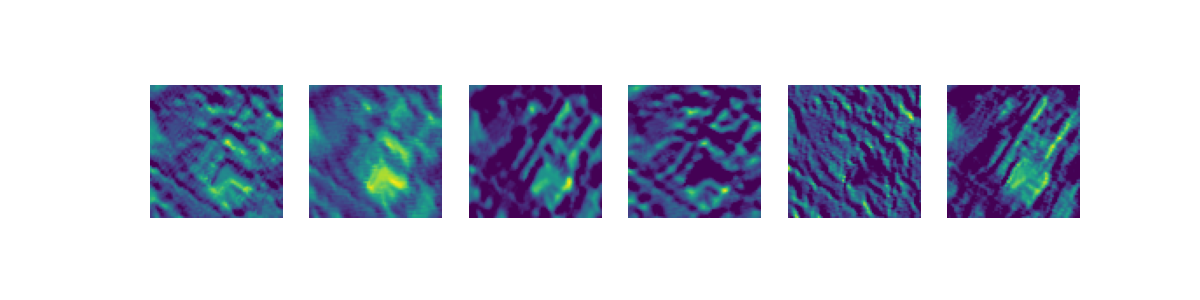
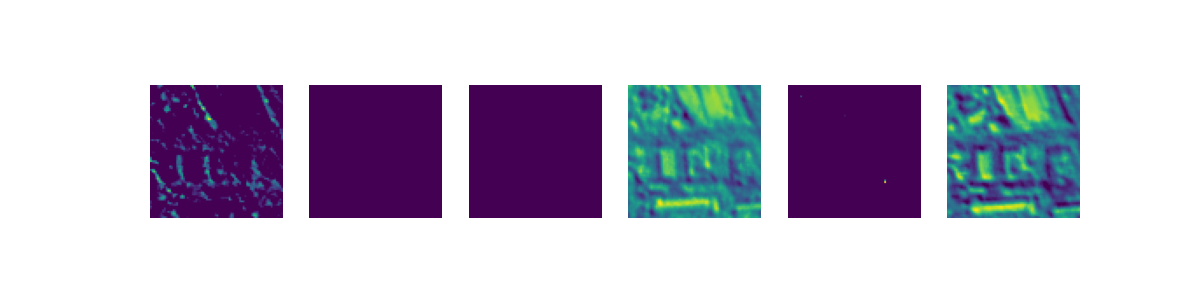
commit2

Changed region(s): [[0.1233, 0.27, 0.925, 0.75]]

diff --git a/outputs/reports/lime_explanation.html b/outputs/reports/lime_explanation.html
@@ -37089,25 +37089,25 @@
 /***/ })
 /******/ ]);
 //# sourceMappingURL=bundle.js.map </script></head><body>
-        <div class="lime top_div" id="top_divCT34VTMZEV9B60X"></div>
+        <div class="lime top_div" id="top_divMN9ED5N2NBW5CFA"></div>
         
         <script>
-        var top_div = d3.select('#top_divCT34VTMZEV9B60X').classed('lime top_div', true);
+        var top_div = d3.select('#top_divMN9ED5N2NBW5CFA').classed('lime top_div', true);
         
             var pp_div = top_div.append('div')
                                 .classed('lime predict_proba', true);
             var pp_svg = pp_div.append('svg').style('width', '100%');
-            var pp = new lime.PredictProba(pp_svg, ["0", "1"], [0.9990931749343872, 0.0009068003273569047]);
+            var pp = new lime.PredictProba(pp_svg, ["0", "1"], [0.3777589797973633, 0.6222410202026367]);
             
         
         var exp_div;
             var exp = new lime.Explanation(["0", "1"]);
         
                 exp_div = top_div.append('div').classed('lime explanation', true);
-                exp.show([["Feature_2 <= -0.50", -0.14710401751154792], ["Feature_3 <= -0.67", -0.021074091289873906], ["0.28 < Feature_1 <= 0.81", -0.0065337296746939034], ["-0.69 < Feature_0 <= 0.08", -0.0020045951346561387]], 1, exp_div);
+                exp.show([["Feature_2 > 0.12", 0.14673721057200023], ["Feature_3 > 0.91", 0.021459425070950677], ["-0.88 < Feature_1 <= 0.28", -0.00808051501943347], ["-0.05 < Feature_0 <= 0.89", -0.0041850714276681624]], 1, exp_div);
                 
         var raw_div = top_div.append('div');
-            exp.show_raw_tabular([["Feature_2", "-0.50", -0.14710401751154792], ["Feature_3", "-0.67", -0.021074091289873906], ["Feature_1", "0.81", -0.0065337296746939034], ["Feature_0", "-0.59", -0.0020045951346561387]], 1, raw_div);
+            exp.show_raw_tabular([["Feature_2", "3.14", 0.14673721057200023], ["Feature_3", "1.13", 0.021459425070950677], ["Feature_1", "0.22", -0.00808051501943347], ["Feature_0", "0.89", -0.0041850714276681624]], 1, raw_div);
         
         </script>
         </body></html>

diff --git a/agents/scientist_agent.py b/agents/scientist_agent.py
@@ -4,6 +4,7 @@ import torch
 import torch.nn as nn
 import torch.optim as optim
 import numpy as np
+import matplotlib.pyplot as plt
 from torch.utils.data import TensorDataset, DataLoader
 from agents.base_agent import BaseAgent
 from sklearn.preprocessing import StandardScaler
@@ -35,18 +36,18 @@ class MLPCustom(nn.Module):
         return self.fc3(x)
 
 class LeNet5Variant(nn.Module):
-    def __init__(self, num_classes=2, padding=0, stride=1, use_avg_pooling=False):
+    def __init__(self, num_classes=2, padding=0, stride=1, use_avg_pooling=False, conv1_filters=6, conv2_filters=16):
         super().__init__()
-        self.conv1 = nn.Conv2d(3, 6, kernel_size=5, stride=stride, padding=padding)
+        self.conv1 = nn.Conv2d(3, conv1_filters, kernel_size=5, stride=stride, padding=padding)
         self.pool = nn.AvgPool2d(2, 2) if use_avg_pooling else nn.MaxPool2d(2, 2)
-        self.conv2 = nn.Conv2d(6, 16, kernel_size=5, stride=1, padding=0)
-        self.conv1x1 = nn.Conv2d(16, 16, kernel_size=1)
-        self.flattened_dim = self._get_conv_output_dim()
+        self.conv2 = nn.Conv2d(conv1_filters, conv2_filters, kernel_size=5, stride=1, padding=0)
+        self.conv1x1 = nn.Conv2d(conv2_filters, conv2_filters, kernel_size=1)
+        self.flattened_dim = self._get_conv_output_dim(conv1_filters, conv2_filters)
         self.fc1 = nn.Linear(self.flattened_dim, 120)
         self.fc2 = nn.Linear(120, 84)
         self.fc3 = nn.Linear(84, num_classes)
 
-    def _get_conv_output_dim(self):
+    def _get_conv_output_dim(self, conv1_filters, conv2_filters):
         with torch.no_grad():
             x = torch.zeros(1, 3, 80, 80)
             x = self.pool(torch.relu(self.conv1(x)))
@@ -143,23 +144,33 @@ class ScientistAgent(BaseAgent):
                 elif strategy == "xavier":
                     nn.init.xavier_normal_(param)
 
+    def plot_learning_curves(self, train_losses, val_losses, model_name):
+            plt.figure(figsize=(10, 6))
+            plt.plot(train_losses, label="Entrainement", color='blue', marker='o')
+            
+            if len(val_losses) > 0:
+                plt.plot(val_losses, label="Validation", color='red', marker='x')
+            
+            plt.xlabel("Epoques")
+            plt.ylabel("Perte")
+            plt.title(f"Courbe d'apprentissage : {model_name}")
+            plt.legend()
+            plt.grid(True)
+            
+    
+            save_path = os.path.join(self.output_dir, f"{model_name}_learning_curve.png")
+            plt.savefig(save_path)
+            plt.close()
+            
+
     def train_tabular_models(self):
-        
         X_train, y_train = torch.load(os.path.join(self.processed_dir, "tabular_train.pt"))
         X_val, y_val = torch.load(os.path.join(self.processed_dir, "tabular_val.pt"))
-        
-        
         scaler = StandardScaler()
-        
         X_train = torch.tensor(scaler.fit_transform(X_train.numpy()), dtype=torch.float32)
         X_val = torch.tensor(scaler.transform(X_val.numpy()), dtype=torch.float32)
-        
-        
         train_loader = DataLoader(TensorDataset(X_train, y_train), batch_size=32, shuffle=True)
-        
-        
         weights = torch.tensor([1.0, 5.0], device=self.device)
-        
         best_val_loss = float("inf")
         best_state = None
         tabular_reports = {}
@@ -170,24 +181,32 @@ class ScientistAgent(BaseAgent):
             model = self.to_device(model)
             criterion = nn.CrossEntropyLoss(weight=weights)
             optimizer = optim.Adam(model.parameters(), lr=0.001)
+            train_losses = []
+            val_losses = []
             for epoch in range(5):
                 model.train()
+                epoch_train_loss = 0.0
+                steps = 0
                 for bx, by in train_loader:
                     bx, by = self.to_device(bx), self.to_device(by)
                     optimizer.zero_grad()
                     loss = criterion(model(bx), by)
                     loss.backward()
                     optimizer.step()
-            model.eval()
-            with torch.no_grad():
-                val_x, val_y = self.to_device(X_val), self.to_device(y_val)
-                v_loss = criterion(model(val_x), val_y).item()
-                tabular_reports[init_strategy] = v_loss
-                if v_loss < best_val_loss:
-                    best_val_loss = v_loss
-                    best_state = model.state_dict()
+                    epoch_train_loss += loss.item()
+                    steps += 1
+                train_losses.append(epoch_train_loss / max(1, steps))
+                model.eval()
+                with torch.no_grad():
+                    val_x, val_y = self.to_device(X_val), self.to_device(y_val)
+                    v_loss = criterion(model(val_x), val_y).item()
+                    val_losses.append(v_loss)
+            self.plot_learning_curves(train_losses, val_losses, f"MLP_{init_strategy}")
+            tabular_reports[init_strategy] = val_losses[-1]
+            if val_losses[-1] < best_val_loss:
+                best_val_loss = val_losses[-1]
+                best_state = model.state_dict()
         torch.save(best_state, os.path.join(self.model_dir, "best_mlp.pt"))
-        
         seq_model = MLPSequential(X_train.shape[1], 64, 2)
         seq_model = self.to_device(seq_model)
         optimizer_seq = optim.Adam(seq_model.parameters(), lr=0.001)
@@ -206,10 +225,55 @@ class ScientistAgent(BaseAgent):
 
     def train_image_models(self):
         X_train, y_train = torch.load(os.path.join(self.processed_dir, "images_train.pt"))
+        X_val, y_val = torch.load(os.path.join(self.processed_dir, "images_val.pt"))
         train_loader = DataLoader(TensorDataset(X_train, y_train), batch_size=64, shuffle=True)
+        val_loader = DataLoader(TensorDataset(X_val, y_val), batch_size=64, shuffle=False)
         cnn_comparison = {}
         for config in [{"padding": 0, "stride": 1, "pool": False}, {"padding": 1, "stride": 2, "pool": True}]:
             model = LeNet5Variant(padding=config["padding"], stride=config["stride"], use_avg_pooling=config["pool"])
+            model = self.to_device(model)
+            criterion = nn.CrossEntropyLoss()
+            optimizer = optim.Adam(model.parameters(), lr=0.001)
+            train_losses = []
+            val_losses = []
+            for epoch in range(2):
+                model.train()
+                epoch_train_loss = 0.0
+                steps = 0
+                for bx, by in train_loader:
+                    bx, by = self.to_device(bx), self.to_device(by)
+                    optimizer.zero_grad()
+                    loss = criterion(model(bx), by)
+                    loss.backward()
+                    optimizer.step()
+                    epoch_train_loss += loss.item()
+                    steps += 1
+                train_losses.append(epoch_train_loss / max(1, steps))
+                model.eval()
+                epoch_val_loss = 0.0
+                v_steps = 0
+                with torch.no_grad():
+                    for vx, vy in val_loader:
+                        vx, vy = self.to_device(vx), self.to_device(vy)
+                        v_loss = criterion(model(vx), vy)
+                        epoch_val_loss += v_loss.item()
+                        v_steps += 1
+                val_losses.append(epoch_val_loss / max(1, v_steps))
+            config_name = f"pad_{config['padding']}_stride_{config['stride']}_avg_{config['pool']}"
+            self.plot_learning_curves(train_losses, val_losses, f"CNN_{config_name}")
+            cnn_comparison[config_name] = val_losses[-1]
+            if config["padding"] == 0 and config["stride"] == 1 and not config["pool"]:
+                torch.save(model.state_dict(), os.path.join(self.model_dir, "best_cnn.pt"))
+        with open(os.path.join(self.output_dir, "cnn_hyperparameters.json"), "w") as f:
+            json.dump(cnn_comparison, f)
+
+        filter_configurations = [
+            {"conv1": 6, "conv2": 16, "name": "Configuration_Standard"},
+            {"conv1": 12, "conv2": 32, "name": "Configuration_Large"}
+        ]
+        filter_experiment_results = {}
+        for config in filter_configurations:
+            model = LeNet5Variant(num_classes=2, conv1_filters=config["conv1"], conv2_filters=config["conv2"])
             model = self.to_device(model)
             criterion = nn.CrossEntropyLoss()
             optimizer = optim.Adam(model.parameters(), lr=0.001)
@@ -221,12 +285,24 @@ class ScientistAgent(BaseAgent):
                     loss = criterion(model(bx), by)
                     loss.backward()
                     optimizer.step()
-            config_name = f"pad_{config['padding']}_stride_{config['stride']}_avg_{config['pool']}"
-            cnn_comparison[config_name] = loss.item()
-            if config["padding"] == 0 and config["stride"] == 1 and not config["pool"]:
-                torch.save(model.state_dict(), os.path.join(self.model_dir, "best_cnn.pt"))
-        with open(os.path.join(self.output_dir, "cnn_hyperparameters.json"), "w") as f:
-            json.dump(cnn_comparison, f)
+            model.eval()
+            correct = 0
+            total = 0
+            with torch.no_grad():
+                for vx, vy in val_loader:
+                    vx, vy = self.to_device(vx), self.to_device(vy)
+                    outputs = model(vx)
+                    _, predicted = torch.max(outputs.data, 1)
+                    total += vy.size(0)
+                    correct += (predicted == vy).sum().item()
+            accuracy = correct / total if total > 0 else 0
+            filter_experiment_results[config["name"]] = {
+                "conv1_filters": config["conv1"],
+                "conv2_filters": config["conv2"],
+                "accuracy": accuracy
+            }
+        with open(os.path.join(self.output_dir, "cnn_filter_experiment.json"), "w") as f:
+            json.dump(filter_experiment_results, f)
 
     def train_sequential_models(self):
         X_train, y_train = torch.load(os.path.join(self.processed_dir, "seq_train.pt"))
@@ -248,8 +324,11 @@ class ScientistAgent(BaseAgent):
             lm_model = self.to_device(lm_model)
             optimizer = optim.Adam(lm_model.parameters(), lr=0.005)
             criterion = nn.CrossEntropyLoss()
+            train_losses = []
             for epoch in range(3):
                 lm_model.train()
+                epoch_train_loss = 0.0
+                steps = 0
                 for bx, _ in train_loader_seq:
                     bx = self.to_device(bx)
                     labels = bx[:, 1]
@@ -260,6 +339,10 @@ class ScientistAgent(BaseAgent):
                     loss.backward()
                     torch.nn.utils.clip_grad_norm_(lm_model.parameters(), max_norm=1.0)
                     optimizer.step()
+                    epoch_train_loss += loss.item()
+                    steps += 1
+                train_losses.append(epoch_train_loss / max(1, steps))
+            self.plot_learning_curves(train_losses, [], f"Seq_{cell_type}")
             lm_model.eval()
             total_test_loss = 0
             steps = 0
@@ -280,32 +363,79 @@ class ScientistAgent(BaseAgent):
             torch.save(lm_model.state_dict(), os.path.join(self.model_dir, f"lm_{cell_type}.pt"))
         with open(os.path.join(self.output_dir, "rnn_lstm_gru_comparison.json"), "w") as f:
             json.dump(sequence_comparison_results, f)
+
+        clipping_results = {}
+        for clip in [True, False]:
+            rnn_model = RNNAngularLM(src_vocab_size, 64, 128)
+            rnn_model = self.to_device(rnn_model)
+            optimizer = optim.Adam(rnn_model.parameters(), lr=0.005)
+            criterion = nn.CrossEntropyLoss()
+            for epoch in range(3):
+                rnn_model.train()
+                for bx, _ in train_loader_seq:
+                    bx = self.to_device(bx)
+                    labels = bx[:, 1]
+                    inputs = bx[:, :-1]
+                    optimizer.zero_grad()
+                    outputs = rnn_model(inputs)
+                    loss = criterion(outputs, labels)
+                    loss.backward()
+                    if clip:
+                        torch.nn.utils.clip_grad_norm_(rnn_model.parameters(), max_norm=1.0)
+                    optimizer.step()
+            rnn_model.eval()
+            total_test_loss = 0
+            steps = 0
+            with torch.no_grad():
+                for bx, _ in test_loader_seq:
+                    bx = self.to_device(bx)
+                    labels = bx[:, 1]
+                    inputs = bx[:, :-1]
+                    outputs = rnn_model(inputs)
+                    total_test_loss += criterion(outputs, labels).item()
+                    steps += 1
+            avg_loss = total_test_loss / max(1, steps)
+            clipping_results[f"with_clipping_{clip}"] = avg_loss
+        with open(os.path.join(self.output_dir, "gradient_clipping_experiment.json"), "w") as f:
+            json.dump(clipping_results, f)
+
         encoder = Seq2SeqEncoder(src_vocab_size, 64, 128)
         decoder = Seq2SeqDecoder(tgt_vocab_size, 64, 128)
         encoder, decoder = self.to_device(encoder), self.to_device(decoder)
         enc_opt = optim.Adam(encoder.parameters(), lr=0.001)
         dec_opt = optim.Adam(decoder.parameters(), lr=0.001)
         criterion_seq = nn.CrossEntropyLoss(ignore_index=0)
+        train_losses = []
         for epoch in range(3):
             encoder.train()
             decoder.train()
+            epoch_loss = 0.0
+            steps = 0
             for src_b, tgt_b in train_loader_seq:
                 src_b, tgt_b = self.to_device(src_b), self.to_device(tgt_b)
                 enc_opt.zero_grad()
                 dec_opt.zero_grad()
+                
                 hidden = encoder(src_b)
-                loss = 0
+                iter_loss = 0.0 
                 dec_input = tgt_b[:, 0]
+                
                 for t in range(1, tgt_b.size(1)):
                     output, hidden = decoder(dec_input, hidden)
-                    loss += criterion_seq(output, tgt_b[:, t])
+                    l = criterion_seq(output, tgt_b[:, t])
+                    l.backward(retain_graph=True)
+                    iter_loss += l.item()
                     
                     if np.random.rand() < 0.5:
                         dec_input = torch.argmax(output, dim=1) 
                     else:
                         dec_input = tgt_b[:, t] 
-                loss.backward()
+                
                 enc_opt.step()
                 dec_opt.step()
+                epoch_loss += (iter_loss / max(1, tgt_b.size(1) - 1))
+                steps += 1
+            train_losses.append(epoch_loss / max(1, steps))
+        
         torch.save(encoder.state_dict(), os.path.join(self.model_dir, "seq2seq_encoder.pt"))
         torch.save(decoder.state_dict(), os.path.join(self.model_dir, "seq2seq_decoder.pt"))

diff --git a/agents/data_steward_agent.py b/agents/data_steward_agent.py
@@ -29,6 +29,10 @@ class DataStewardAgent(BaseAgent):
         for col in cat_cols:
             if col in df.columns:
                 df[col] = df[col].astype("category").cat.codes
+        print("Ordre des colonnes pour LIME :")
+        feature_names = df.drop(columns=["Detention"]).columns.tolist()
+        for i, name in enumerate(feature_names):
+            print(f"Feature_{i} : {name}")
         X = df.drop(columns=["Detention"]).values.astype(np.float32)
         y = df["Detention"].values.astype(np.int64)
         n = len(X)